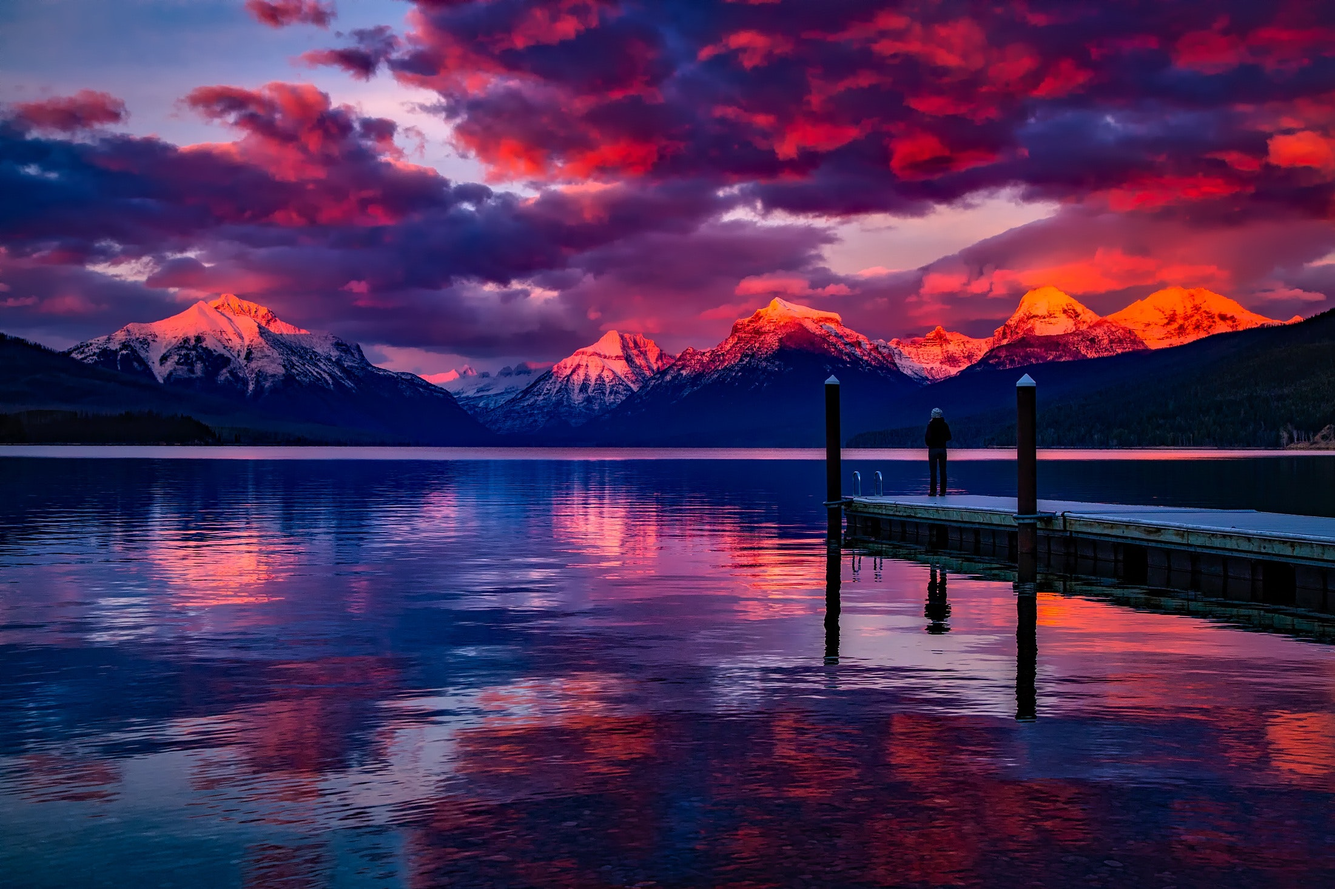
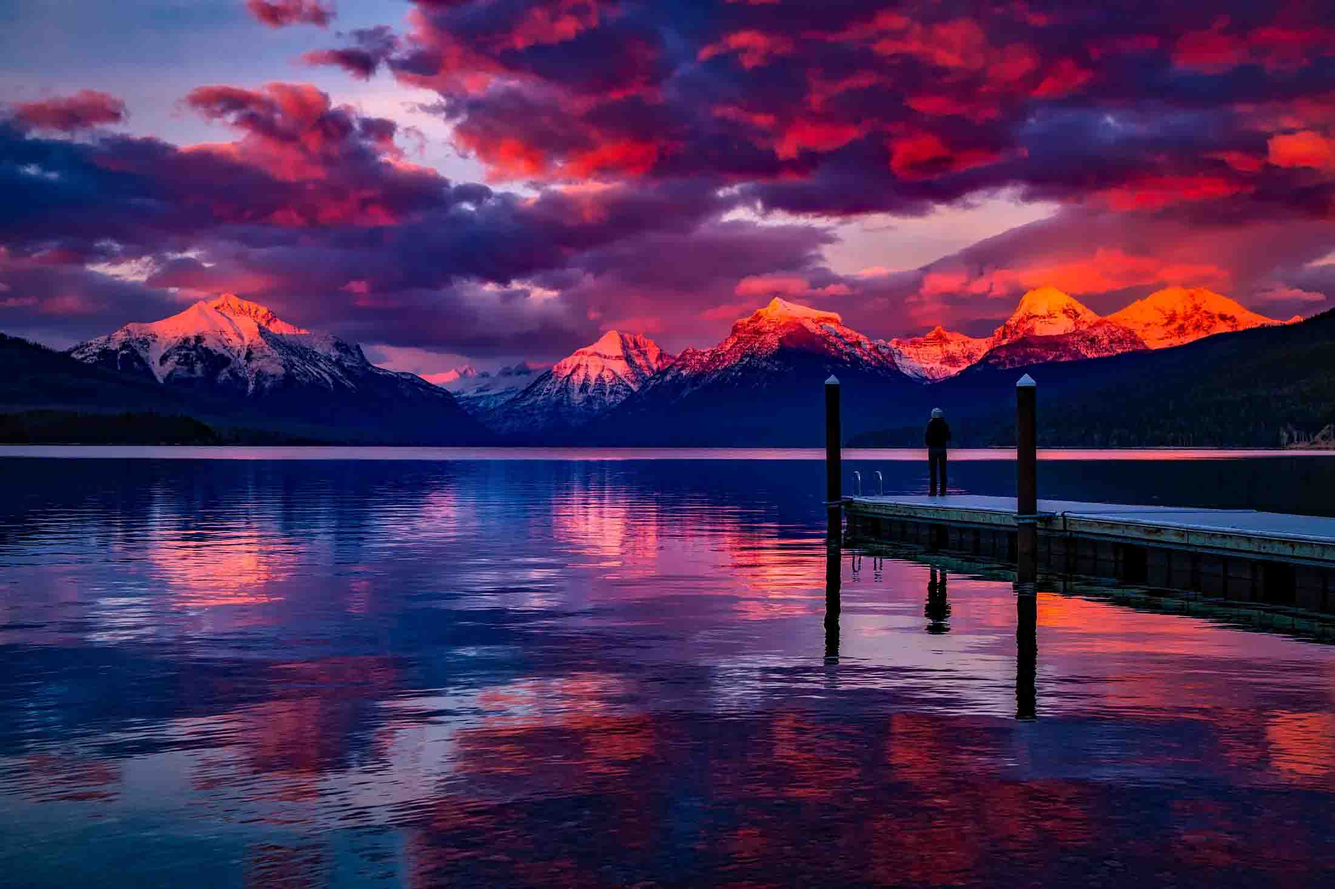
:hammer: Optimized Images

diff --git a/index.html b/index.html
@@ -215,6 +215,16 @@
 				</div>
 				<div class="flip">
 					<div class="front"
+						style="background-image: url(images/grid/silhouette-of-trees-at-sunset-257092.jpg)">
+						<h1 class="text-shadow">Flask</h1>
+					</div>
+					<div class="back">
+						<a href="https://palletsprojects.com/p/flask/" target="_blank" rel="noopener" title="palletsprojects.com"><img class="skill-icon" src="assets/icons/flask/flask.svg"></a>
+						<p>Flask is a micro web framework written in Python. It is classified as a microframework because it does not require particular tools or libraries.</p>
+					</div>
+				</div>
+				<div class="flip flip-vertical">
+					<div class="front"
 						style="background-image: url(images/grid/aerial-photography-of-forest-1468704.jpg)">
 						<h1 class="text-shadow">Django</h1>
 						<blockquote>You’d be hard pressed to find something in the world of web development that Django can’t make.</blockquote>
@@ -224,7 +234,7 @@
 						<p>Django is a Python-based free and open-source web framework, which follows the model-template-view architectural pattern. It is maintained by the Django Software Foundation, an independent organization established as a 501 non-profit.</p>
 					</div>
 				</div>
-				<div class="flip flip-vertical">
+				<div class="flip">
 					<div class="front"
 						style="background-image: url(images/grid/forest.jpeg)">
 						<h1 class="text-shadow">R</h1>
@@ -235,7 +245,7 @@
 						<p>R is a programming language and free software environment for statistical computing and graphics supported by the R Foundation for Statistical Computing. The R language is widely used among statisticians and data miners for developing statistical software and data analysis.</p>
 					</div>
 				</div>
-				<div class="flip">
+				<div class="flip flip-vertical">
 					<div class="front"
 						style="background-image: url(images/grid/black-and-white-city-houses-skyline-2255.jpg)">
 						<h1 class="text-shadow">AWS</h1>
@@ -246,7 +256,7 @@
 						<p>Amazon Web Services is a subsidiary of Amazon that provides on-demand cloud computing platforms and APIs to individuals, companies, and governments, on a metered pay-as-you-go basis.</p>
 					</div>
 				</div>
-				<div class="flip flip-vertical">
+				<div class="flip">
 					<div class="front"
 						style="background-image: url(images/grid/brown-book-page-1112048.jpg)">
 						<h1 class="text-shadow">PostgreSQL</h1>
@@ -256,7 +266,7 @@
 						<p>PostgreSQL, AKA Postgres, is a free and open-source relational database management system emphasizing extensibility and SQL compliance. It was originally named POSTGRES, referring to its origins as a successor to the Ingres database developed at the University of California, Berkeley.</p>
 					</div>
 				</div>
-				<div class="flip">
+				<div class="flip flip-vertical">
 					<div class="front"
 						style="background-image: url(images/grid/forest-track.jpg)">
 						<h1 class="text-shadow">JavaScript</h1>
@@ -267,7 +277,7 @@
 						<p>JavaScript, often abbreviated as JS, is a programming language that conforms to the ECMAScript specification. JavaScript is high-level, often just-in-time compiled, and multi-paradigm. It has curly-bracket syntax, dynamic typing, prototype-based object-orientation, and first-class functions.</p>
 					</div>
 				</div>
-				<div class="flip flip-vertical">
+				<div class="flip">
 					<div class="front"
 						style="background-image: url(images/grid/aerial-architectural-design-architecture-buildings-373912.jpg)">
 						<h1 class="text-shadow">AngularJS</h1>
@@ -277,7 +287,7 @@
 						<p>AngularJS is a JavaScript-based open-source front-end web framework mainly maintained by Google and by a community of individuals and corporations to address many of the challenges encountered in developing single-page applications.</p>
 					</div>
 				</div>
-				<div class="flip">
+				<div class="flip flip-vertical">
 					<div class="front"
 						style="background-image: url(images/grid/silhouette-of-mountains-during-dawn-1809644.jpg)">
 						<h1 class="text-shadow">Node.js</h1>
@@ -288,7 +298,7 @@
 						<p>Node.js is an open-source, cross-platform, JavaScript runtime environment that executes JavaScript code outside of a web browser.</p>
 					</div>
 				</div>
-				<div class="flip flip-vertical">
+				<div class="flip">
 					<div class="front"
 						style="background-image: url(images/grid/amazing-animal-beautiful-beautifull.jpg)">
 						<h1 class="text-shadow">C</h1>
@@ -299,7 +309,7 @@
 						<p>C is a general-purpose, procedural computer programming language supporting structured programming, lexical variable scope, and recursion, while a static type system prevents unintended operations.</p>
 					</div>
 				</div>
-				<div class="flip">
+				<div class="flip flip-vertical">
 					<div class="front"
 						style="background-image: url(images/grid/close-up-photo-ofg-light-bulb-716398.jpg)">
 						<h1 class="text-shadow">Java</h1>
@@ -310,7 +320,7 @@
 						<p>Java is a general-purpose programming language that is class-based, object-oriented, and designed to have as few implementation dependencies as possible.</p>
 					</div>
 				</div>				
-				<div class="flip flip-vertical">
+				<div class="flip">
 					<div class="front"
 						style="background-image: url(images/grid/sky-people-street-taking-photo-97906.jpg)">
 						<h1 class="text-shadow">C++</h1>
@@ -321,7 +331,7 @@
 						<p>C++ is a high-level, general-purpose programming language created by Bjarne Stroustrup as an extension of the C programming language, or "C with Classes"</p>
 					</div>
 				</div>
-				<div class="flip">
+				<div class="flip flip-vertical">
 					<div class="front"
 						style="background-image: url(images/grid/photo-of-grey-mountain-991422.jpg)">
 						<h1 class="text-shadow">SQL</h1>
@@ -332,7 +342,7 @@
 						<p>SQL is a domain-specific language used in programming and designed for managing data held in a relational database management system, or for stream processing in a relational data stream management system.</p>
 					</div>
 				</div>
-				<div class="flip flip-vertical">
+				<div class="flip">
 					<div class="front"
 						style="background-image: url(images/grid/road-amidst-bare-trees-327308.jpg)">
 						<h1 class="text-shadow">HTML5</h1>
@@ -343,7 +353,7 @@
 						<p>Hypertext Markup Language is the standard markup language for documents designed to be displayed in a web browser. It can be assisted by technologies such as Cascading Style Sheets and scripting languages such as JavaScript.</p>
 					</div>
 				</div>
-				<div class="flip">
+				<div class="flip flip-vertical">
 					<div class="front"
 						style="background-image: url(images/grid/photo-of-starry-night-1421903.jpg)">
 						<h1 class="text-shadow">CSS3</h1>
@@ -823,7 +833,7 @@
 	<script src="assets/js/browser.min.js"></script>
 	<script src="assets/js/breakpoints.min.js"></script>
 	<script src="assets/js/util.min.js"></script>
-	<script src="assets/js/recaptchaRequired.min.js"></script>
+	<script src="assets/js/recaptchaRequired.min.js" defer></script>
 	<script src="assets/js/main.min.js"></script>
 
 	<!-- Global site tag (gtag.js) - Google Analytics -->
@@ -839,10 +849,10 @@
 	</script>
 
 	<!-- Google reCAPTCHA -->
-	<script src="https://www.google.com/recaptcha/api.js" async defer></script>
+	<script src="https://www.google.com/recaptcha/api.js" defer></script>
 
 	<!-- Telephone -->
-	<script src="assets/js/intlTelInput.js"></script>
+	<script src="assets/js/intlTelInput.js" defer></script>
 	<script>
 		var input = document.querySelector("#phone");
 		window.intlTelInput(input);
@@ -870,7 +880,7 @@
 	</script>
 
 	<!-- Mobile/Desktop -->
-	<script type="text/javascript">
+	<script type="text/javascript" defer>
 		var isMobile = /iPhone|iPad|iPod|Android/i.test(navigator.userAgent);
 		var element = document.getElementById('text');
 		if (isMobile) {
